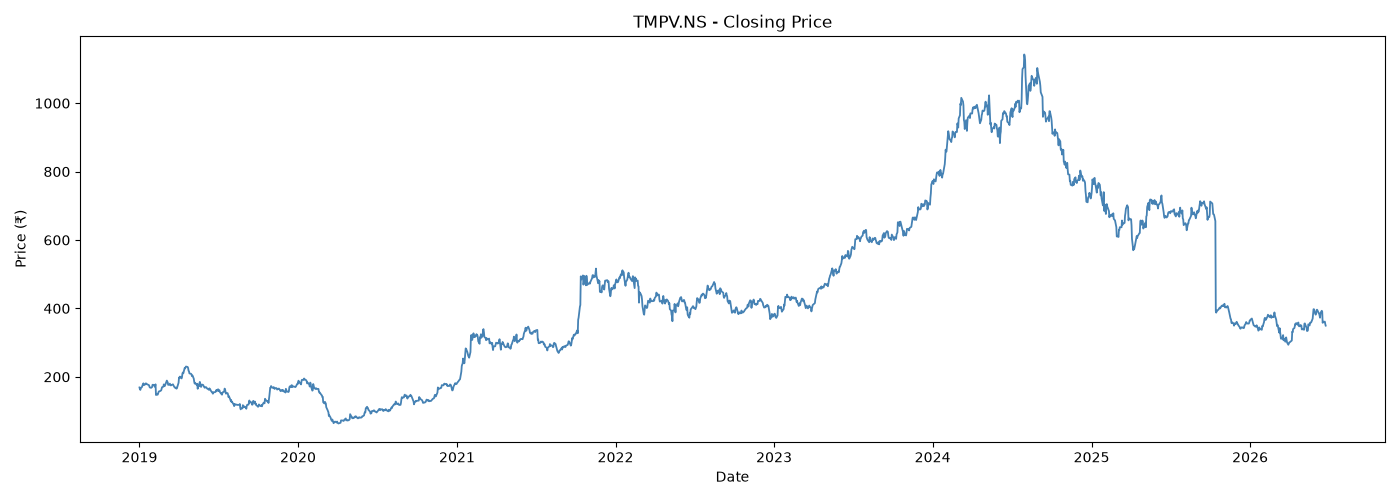
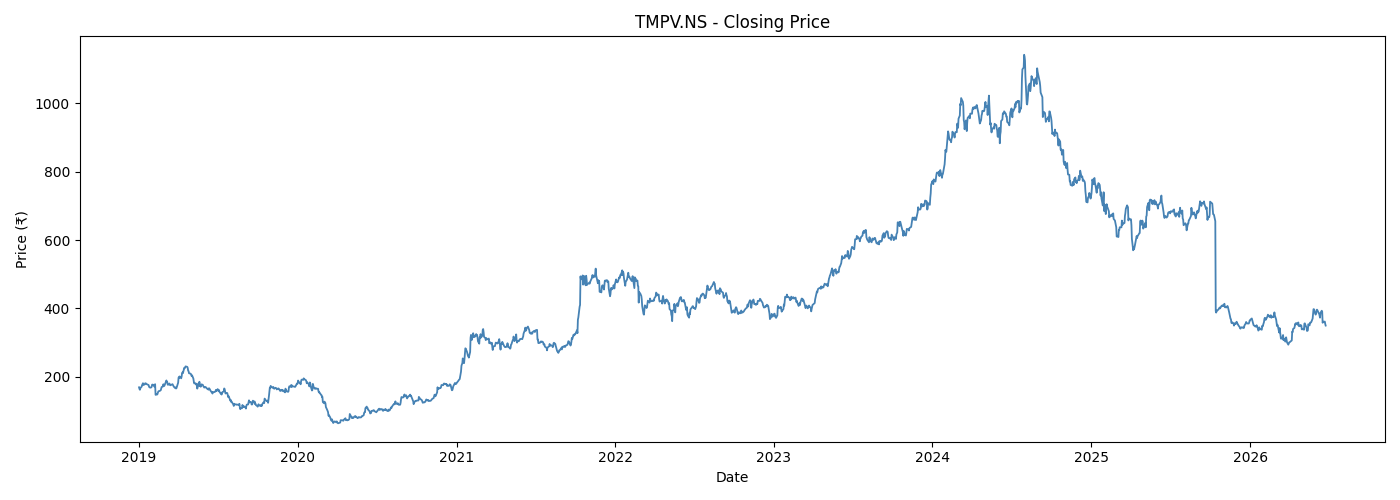
minor README.md correction

diff --git a/README.md b/README.md
@@ -11,7 +11,7 @@ Predicting the next-day closing price of Tata Motors Passenger Vehicles (TMPV.NS
 | MAE | ₹18.27 | ₹8.28 |
 | RMSE | ₹29.68 | ₹17.57 |
 
-**The naive baseline outperforms the model by roughly 2.2x.** For a single-feature, next-day price forecast, this is a well-known and expected result: daily stock price changes are close to unpredictable, so "tomorrow's price ≈ today's price" is a genuinely hard baseline to beat, and the model's own error compounds on top of that starting point rather than improving on it.
+**The naive baseline has roughly 2.2x lower MAE and 1.7x lower RMSE than the model.** For a single-feature, next-day price forecast, this is a well-known and expected result: daily stock price changes are close to unpredictable, so "tomorrow's price ≈ today's price" is a genuinely hard baseline to beat, and the model's own error compounds on top of that starting point rather than improving on it.
 
 I'm reporting this because I'd rather show an honestly benchmarked project than an inflated one. See [Known Limitations & Future Work](#known-limitations--future-work) for what would need to change to close this gap.
 
@@ -142,6 +142,10 @@ The initial build used a `python:3.10-slim` base image, which failed at model lo
 
 **Lesson:** pinning application-level package versions doesn't help if the base image's language runtime itself is out of range for what those packages require — check the runtime version first, not just the package versions.
 
+### Another debugging note: the `/predict` endpoint hang
+
+The first version of the endpoint hung on every request: no crash, no error, it just timed out. Three changes resolved it: price data is now fetched once at server startup instead of inside the request handler, TensorFlow is limited to a single thread (`tf.config.threading.set_inter_op_parallelism_threads(1)` and `set_intra_op_parallelism_threads(1)`), and the model is called directly with `model(X, training=False).numpy()` instead of `model.predict`.
+
 ---
 
 ## How to Run
@@ -164,12 +168,12 @@ docker run -p 8000:8000 tata-motors-api
 
 ## Known Limitations & Future Work
 
-- **Doesn't beat the naive baseline.** The model trails "tomorrow = today" by roughly 2.2x on both MAE and RMSE, including on the clean, post-demerger test segment. The most direct fix would be reformulating the model to predict the next-day *return* (percent change) rather than the price level directly — this reframes the naive baseline as "predict 0% change," which the model only has to improve on incrementally, rather than reconstructing a full price level from scratch.
+- **Doesn't beat the naive baseline.** The model trails "tomorrow = today" by roughly 2.2x on MAE and 1.7x on RMSE, and still trails it on MAE in the clean, post-demerger test segment. The most direct fix would be reformulating the model to predict the next-day *return* (percent change) rather than the price level directly — this reframes the naive baseline as "predict 0% change," which the model only has to improve on incrementally, rather than reconstructing a full price level from scratch.
 - **Corporate action handling.** The 14 October 2025 demerger is a structural break the pipeline doesn't currently adjust for. Back-adjusting pre-demerger prices, or excluding/flagging the affected window, would give a cleaner evaluation.
 - **Single-feature input.** Only closing price is used; no volume, no other tickers, no macro features.
 - **API data freshness.** `predict_api.py` fetches price history once at server startup and reuses it for the container's lifetime — a long-running deployment would serve stale `current_price`/`as_of` values without a restart. A time-based cache refresh would fix this.
 - **No fixed evaluation seed until this pass.** Earlier runs weren't seeded, so reported metrics varied between runs; `set_random_seed(42)` is now used for reproducibility on CPU (GPU runs may still vary slightly).
-- **Environment note:** training this model hit a reproducible TensorFlow/Keras thread-pool deadlock on Apple Silicon (M1) CPU-only local execution — the process would hang indefinitely at 0% CPU, unresponsive even to `Ctrl+C` (consistent with a native-level lock, not a Python-level issue). Root cause wasn't fully isolated; training was moved to Google Colab as a reliable workaround. Local M1 execution remains fine for running the FastAPI serving layer.
+- **Environment note:** training this model hit a reproducible TensorFlow/Keras thread-pool deadlock on Apple Silicon (M1) CPU-only local execution — the process would hang indefinitely at 0% CPU, unresponsive even to `Ctrl+C` (consistent with a native-level lock, not a Python-level issue). Root cause wasn't fully isolated; training was moved to Google Colab as a reliable workaround. Running the FastAPI serving layer locally works with the single-thread and direct-call settings described above.
 
 ---
 
